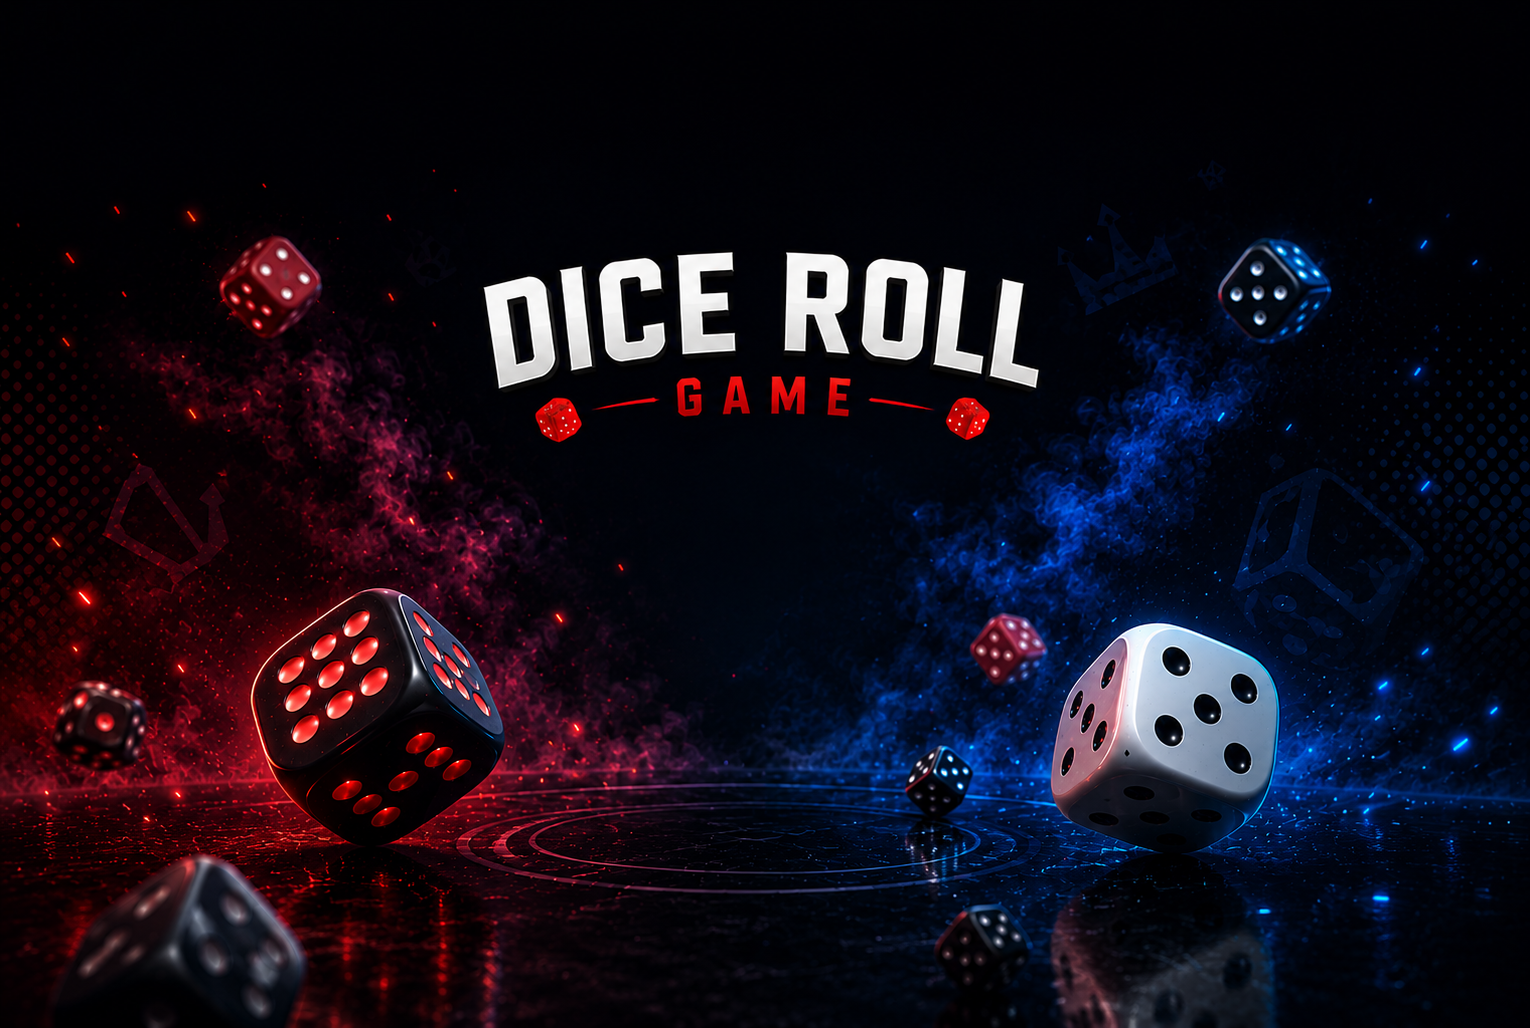
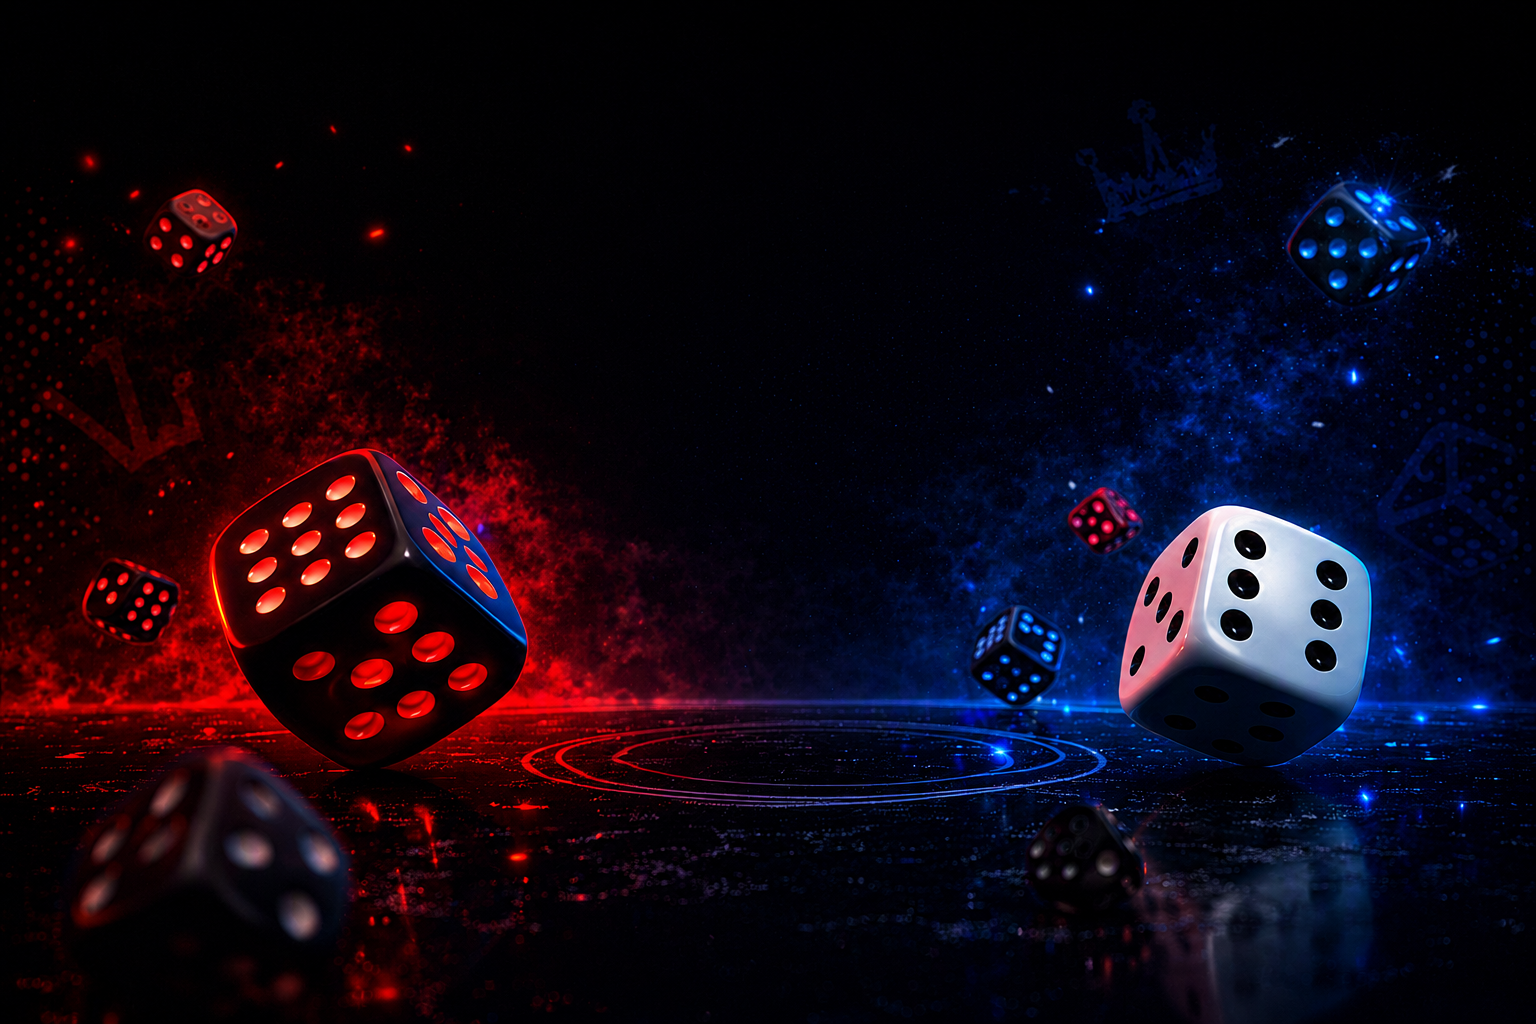
second commit

diff --git a/style.css b/style.css
@@ -7,7 +7,8 @@
 
 body{
     background-image: url(./images/bg_photo.png);
-    background-size: cover;
+    background-size: auto auto;
+    background-repeat: no-repeat;
     color: #44C496;
     height: 100vh;
     display: flex;
